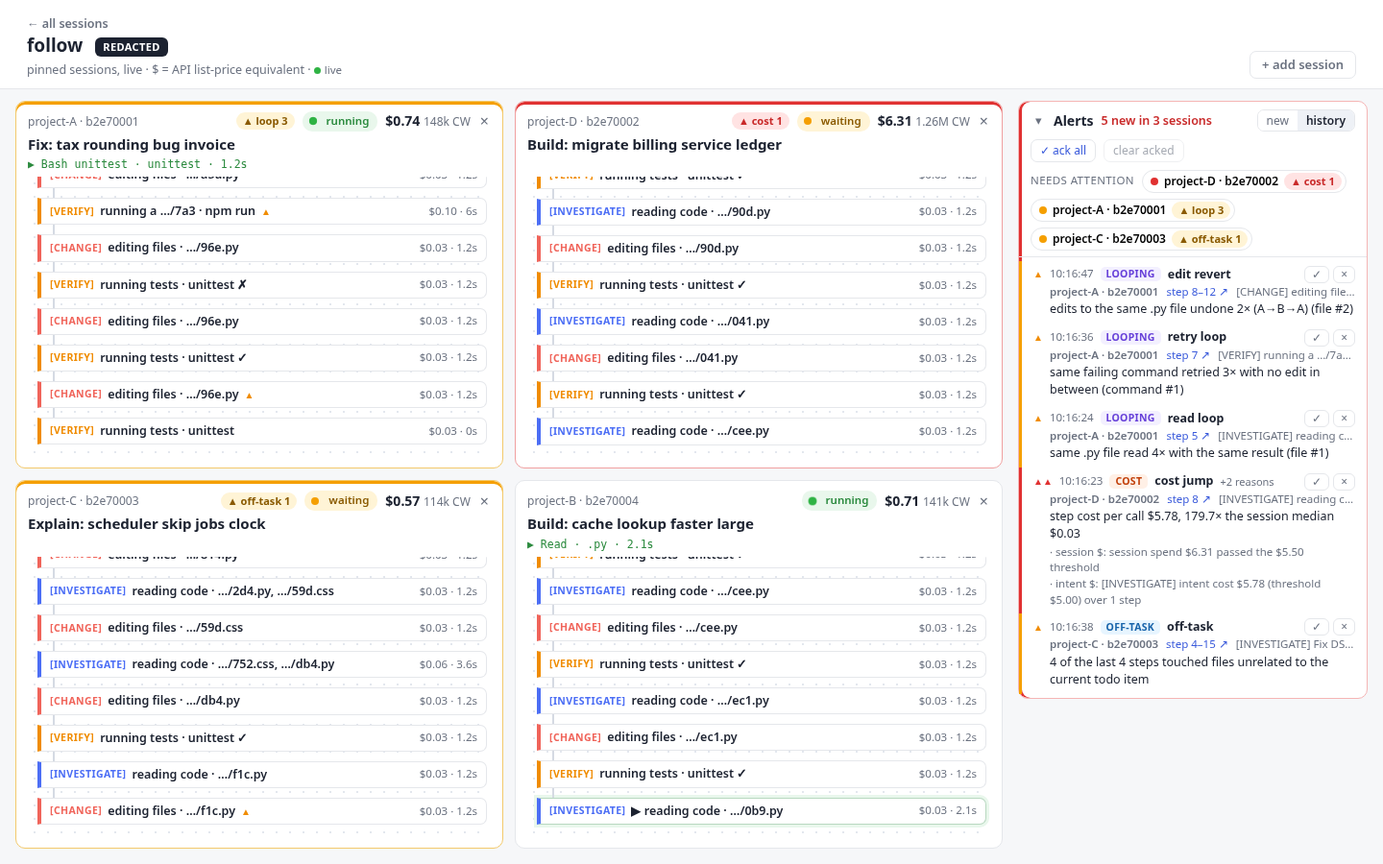
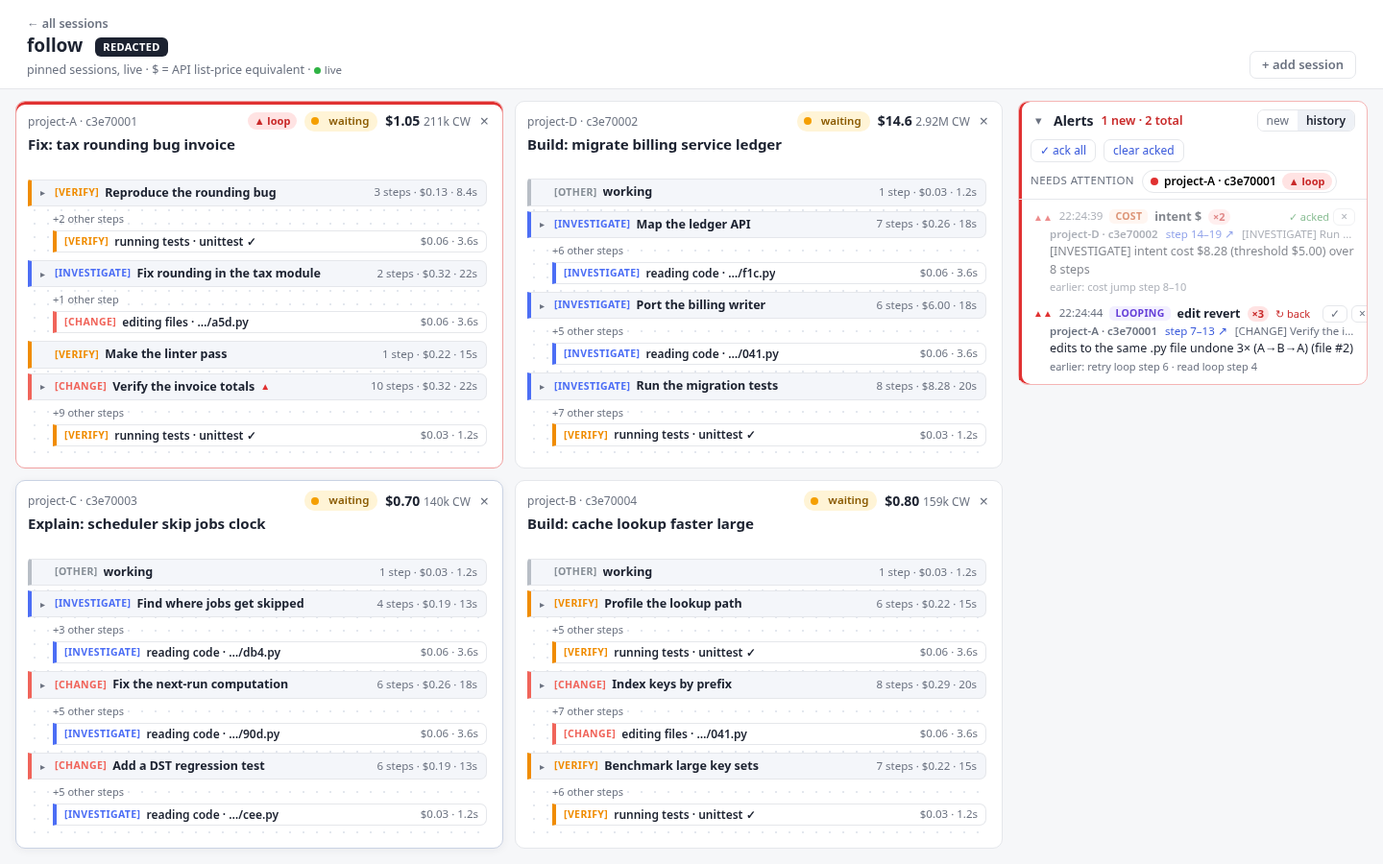
alerts v3: docs (intents in the flows, one alert per type, escalation-only re-raise, v2 history migration) and v3 media

diff --git a/README.md b/README.md
@@ -36,10 +36,11 @@ truncation handled) and shows:
   4 of them side by side as live step flows, subagents included. See
   [Many sessions at once](#many-sessions-at-once-the-board-and-the-follow-view) below.
 - **Session view** (`/s/<id>`): the session as an infinite canvas (pan, zoom, minimap, fit view). One node per
-  intent group or step ([CATEGORY] label, CW, $, wall time, a one-line summary, ✦ skills, ✎ declared), top-down in
+  intent ([CATEGORY] label, steps, CW, $, wall time, ✦ skills, ✎ declared): the intent always heads the node, then
+  `+N other steps` and only its latest step (see [Intents in the flows](#intents-in-the-flows)), top-down in
   time order; each subagent branches off the step that launched it as its own flow of intents (parallel fan-outs side
   by side, nested ones further right) and rejoins the main flow when it returns. Click a node for its steps and tool
-  calls (target, CW, time, ✓ / ✗, test counts) in a side panel. The view follows the live node; pan or zoom and it
+  calls (target, CW, time, ✓ / ✗, test counts) in a side panel: every step of the intent. The view follows the live node; pan or zoom and it
   stops, "follow live" resumes. Overlays (collapsible): ASKED / NOW / TESTS / FILES / SKILLS rows with totals and a
   context gauge, and the idle recap (costliest and slowest intent, up to 3 hints, cross-session ones marked) while the
   session waits for you. `?replay=1` replays a recorded session server-side as if it were live (about 90 s;
@@ -116,21 +117,34 @@ step (or step range) it is about:
 Severity: `warning`, or `critical` for a session / intent at >= 2x its threshold, a jump at >= 4x `cost.jump_ratio`,
 a repeat or retry at >= 2x its count, and edits undone >= 2x `looping.edit_revert_n` + 1 times.
 
-**Grouped per step.** Alerts of one kind that fire at the same step of one thread are one alert with several
-reasons: one expensive step that passes the session and intent thresholds and is a jump shows as one critical
-`cost jump +2` (reasons: `intent $`, `session $`), not three. The worst reason leads (then session $, intent $, jump);
-the alert takes the worst severity and the widest step range. A cost alert points at the step it fired at
-(`intent_usd`: the step that took the intent over its threshold), a loop at the step it began at.
+**One alert per kind per session.** A session has at most one cost, one off-task and one looping alert, so at most
+three. Each firing is a *trigger*; a new trigger of a kind the session already has updates that alert in place, and
+never adds a row:
+
+- its severity escalates to the worst trigger's and never goes down;
+- it shows the latest trigger's rule, message, step range and reasons, and links to the latest step;
+- it counts its triggers (`retry loop ×4`) and lists the earlier ones (`earlier: read loop step 5 · edit revert step
+  8–14`).
+
+The alert's id is stable per (session, kind). Within one trigger, alerts of one kind that fire at the same step of
+one thread are still one trigger with several reasons: one expensive step that passes the session and intent
+thresholds and is a jump is one critical `cost jump +2` (reasons: `intent $`, `session $`). The worst reason leads
+(then session $, intent $, jump). A cost trigger points at the step it fired at (`intent_usd`: the step that took
+the intent over its threshold), a loop at the step it began at.
 
 Messages are privacy-safe in every mode: no paths, file names, commands, patterns, prompt text, user names, e-mails
 or keys; files and commands are named by kind and a per-session ordinal (`same .py file read 6× (file #2)`,
 `same failing command retried 3× (command #1)`), and a last scrub removes anything path-, e-mail- or key-like.
 
 **History and acknowledgement.** Every alert of every session is kept until you acknowledge it (it stays in the
-history, dimmed, no longer counted as needing attention) or dismiss it (it leaves the history). Acknowledged or
-dismissed alerts come back when they get worse (a new reason at the step, a higher severity). The server keeps the
-history and its states on disk, deduplicated by the alert's stable id, so it survives page reloads and server
-restarts: `~/.cache/tokenscope/alerts-history.jsonl` (`$TOKENSCOPE_CACHE_DIR`, or `$TOKENSCOPE_ALERTS_HISTORY`, or
+history, dimmed, no longer counted as needing attention) or dismiss it (it leaves the history). Ack and dismiss
+apply to the one alert of a kind. An acknowledged or dismissed alert comes back as new only when it **escalates**
+(its severity rises). A new trigger at the same or a lower severity still updates its count, message and latest
+step, but leaves it acknowledged (or dismissed), so a loop that keeps going does not keep asking for attention. The
+server keeps the history and its states on disk, one record per (session, kind), so it survives page reloads and
+server restarts. A history written by an older version (one record per kind, thread and step) is merged into one
+record per session and kind when it loads: its count is the number of old records, it takes their worst severity
+and the newest one's message and step, and it is new if any of them was. The file is then rewritten. Location: `~/.cache/tokenscope/alerts-history.jsonl` (`$TOKENSCOPE_CACHE_DIR`, or `$TOKENSCOPE_ALERTS_HISTORY`, or
 `--alerts-history FILE`; `--no-alerts-history` keeps it in memory only). It holds the alerts' privacy-safe messages,
 the session id, and the project / goal / step labels as the server showed them (masked unless `--no-redact`). The
 server records alerts from its poll loop, whether or not a view is open.
@@ -139,9 +153,10 @@ server records alerts from its poll loop, whether or not a view is open.
 
 Where they show:
 
-- **Web (board, follow view, session canvas)**: an **Alerts** section with the history across sessions, newest
-  first: time, severity, kind (cost / off-task / looping), rule (`+N reasons` for a grouped one, listed under
-  it), session, step and the intent at that step, message; `✓` acknowledges, `×` dismisses, `✓ ack all` and
+- **Web (board, follow view, session canvas)**: an **Alerts** section with the history across sessions, one row per
+  session and kind, newest first: time, severity, kind (cost / off-task / looping), rule (`×N` triggers, `+N reasons`
+  listed under it), session, latest step and the intent at that step, message, and the earlier triggers. A row
+  that updates in place flashes; `✓` acknowledges, `×` dismisses, `✓ ack all` and
   `clear acked` act on all shown; `new` / `history` filters. **Needs attention** lists the sessions with alerts not
   acknowledged, worst first, each with its counts by kind; click one to jump to its card (board) or tile (follow
   view; a session not followed yet is pinned). Click an alert to jump to it: the board scrolls to the card, the
@@ -149,20 +164,24 @@ Where they show:
   step; the `step N ↗` link opens the canvas on that step (`/s/<id>#step=N`). The section collapses to its header
   line (`▾` / `▸`); the choice and the filter are kept per page in the browser (localStorage). On the board it sits
   above the cards, in the follow view it is a column next to the tiles (collapsed: a narrow strip), on the canvas a
-  drawer at the bottom left. Every **board card** and **follow tile** carries a badge with its unacknowledged
-  alerts by kind (`▲ cost 1 · loop 2`) and an edge in the worst one's colour (red critical, amber warning); a
-  tile marks alerted steps with `▲`. The canvas marks the node holding each alert's step (▲, coloured by severity;
-  hover for the alerts, click for the side panel) and lists them in an ALERTS row; acknowledged ones leave the
-  nodes and stay in the drawer.
+  drawer at the bottom left. Every **board card** and **follow tile** carries a badge with the kinds it has
+  unacknowledged alerts of (`▲ cost · loop`) and an edge in the worst one's colour (red critical, amber warning); a
+  tile marks each alert's latest step with `▲` (on the intent header while that step is hidden). The canvas marks
+  the node holding each alert's latest step (▲, coloured by severity; hover for the alert and its earlier
+  triggers, click for the side panel) and lists them in an ALERTS row (`retry loop ×3 · 23`); acknowledged ones
+  leave the nodes and stay in the drawer.
 - **Pane** (Claude Code mod): an alerts section under its header with the session's alerts, new ones first,
   acknowledged ones dim with `✓`, each numbered `#n`; press a row or `/tokenscope ack <#|all>` to acknowledge,
   `/tokenscope dismiss <#|all>` to dismiss, `/tokenscope alerts` prints the whole history, `/tokenscope alerts
-  hide|show` (or a press on its head) collapses it to one line, kept across sessions. Each new alert raises a toast.
+  hide|show` (or a press on its head) collapses it to one line, kept across sessions. A row shows `×N` when its
+  kind fired more than once; `/tokenscope alerts` lists the earlier triggers too. A new alert raises a toast, and
+  so does an escalated one; an in-place update at the same severity does not.
   See `mod/tokenscope-live/README.md`.
 
-API: `"alerts"` in `/api/session/<id>/compact` and `/flow` (the session's history, not dismissed:
-`[{id, n, kind, rule, severity, message, step, first, agent, reasons, details, active, live, state, ts, at,
-intent, raised}]`), counts in `/api/board` and `/api/follow` (`n`, `active`, `worst`, `by_kind`, and not
+API: `"alerts"` in `/api/session/<id>/compact` and `/flow` (the session's history, not dismissed, at most one per
+kind: `[{id, n, kind, rule, severity, message, step, first, agent, reasons, details, active, live, state, ts, at,
+intent, raised, count, triggers}]`, `triggers` = `[{id, rule, rules, severity, message, step, first, agent}]`,
+oldest first), counts in `/api/board` and `/api/follow` (`n`, `active`, `worst`, `by_kind`, and not
 acknowledged: `new`, `new_by_kind`, `new_worst`), `GET /api/session/<id>/alerts` (the list, its counts and the
 config in use), `GET /api/alerts[?s=<id>,...][&state=all][&limit=N]` (the history across sessions plus
 `sessions`: who needs attention), and `POST /api/alerts/ack`, `/dismiss` (`{"ids": [...]}` or `{"all": true,
@@ -170,7 +189,8 @@ config in use), `GET /api/alerts[?s=<id>,...][&state=all][&limit=N]` (the histor
 
 Offline: `tokenscope alerts SESSION [--json]` replays one transcript and prints its alerts;
 `python3 tools/alerts_eval.py --root DIR [--events FILE] [--off-task] [--per-trace] [--sample N]` runs the detectors
-over a whole tree and prints counts per kind and rule (traces named by ordinal and session id prefix only).
+over a whole tree and prints, per kind, the raw detector alerts, the triggers (grouped per step) and the alerts
+shown (one per kind and session), plus counts per rule (traces named by ordinal and session id prefix only).
 `tests/alerts_synth.py` writes synthetic sessions that trigger each alert (committed under `tests/fixtures/alerts/`).
 
 **Config**: `~/.config/tokenscope/alerts.toml` (or `$TOKENSCOPE_ALERTS_CONFIG`, or `--alerts-config FILE`; TOML or
@@ -243,9 +263,10 @@ them, and their cost adds up into that step and the tile total.*
   another running one. Pins are kept in the browser (localStorage) and in the URL (`/follow?s=a,b,c,d`), and the URL
   wins when it names sessions, so a follow view can be bookmarked.
 - **Follow view** (`/follow`): the pinned sessions in a 2x2 grid that adapts to 1-3. Each tile is a compact live flow
-  of the session's latest steps (step title with its [CATEGORY], $ and wall time per step) under a header with the
-  running total $ and the status (running / waiting / idle / ended), plus the call running now. It auto-scrolls to
-  the newest step; scroll up to stop, `↓ latest` resumes. The goal line opens the session's canvas (`/s/<id>`). One
+  of the session's latest intents: each intent's header ([CATEGORY] label, steps, $ and wall time), `+N other steps`
+  and its latest step, under a header with the running total $ and the status (running / waiting / idle / ended),
+  plus the call running now. Click an intent's header (or its `+N other steps`) to list all its steps, again to
+  close it. It auto-scrolls to the newest step; scroll up to stop, `↓ latest` resumes (and closes what you opened). The goal line opens the session's canvas (`/s/<id>`). One
   `/api/follow` request feeds all tiles.
 - **Subagents, live**: a step that launched subagents (Agent / Task, Workflow, Explore, …) carries them as branches,
   each labelled with its type and description (type only when redacted) and showing its latest steps and status
@@ -253,10 +274,27 @@ them, and their cost adds up into that step and the tile total.*
   hang under the subagent step that launched them (up to 3 levels). A branch's cost, its own subagents included,
   rolls into the launching step and the tile total. The tile stays *running* (and a SessionEnd does not show it as
   ended) while any subagent still works, even when the main thread only waits; the NOW line then shows the latest
-  subagent call. While a branch runs it stays pinned in view: the finished main-thread steps around it fold into
-  `… N earlier steps · $X` lines, finished older branches collapse to one header line (click either to open it,
-  which stops following until `↓ latest`), and the tile scrolls so the running branches and the latest step both
-  show.
+  subagent call. A branch lists its intents the same way (header, `+N other steps`, latest step). The subagents of
+  an intent's hidden steps still show, under its latest step. While a branch runs it stays pinned in view: finished
+  older branches collapse to one header line (click to open it, which stops following until `↓ latest`), and the
+  tile scrolls so the running branches and the latest step both show.
+
+### Intents in the flows
+
+The follow tiles, the session canvas and the pane list a session as **intents**, never as loose steps. Each intent is
+a header line, then a muted `+N other steps` line when it has more than one step, then only its latest step:
+
+```
+[CHANGE] Fix tax rounding in invoice totals · 6 steps · $0.22 · 54s
+  +5 other steps
+  [CHANGE] editing files · …/59d.css · $0.03 · 2s
+```
+
+An intent is an intent group (a todo item, a declared intent, or a run of steps the model named). Steps outside any
+group whose label is not settled yet (the open step, or steps waiting for the model labeller) go under one
+**pending intent** (`pending intent…`, dimmed) until they get one. A settled step outside every group is its own
+one-step intent, shown as its header alone. Expanding an intent shows all its steps: a click on the header in the
+follow view, the side panel on the canvas, and `/tokenscope expand <n|all>` (or a press on the header) in the pane.
 
 Goal labels come from the first prompt. One that reads oddly as a label (long, multi-line, filler, paths, code) gets
 a cleaned-up name; `--haiku-odd` asks Haiku for just those (see the options above).
@@ -274,9 +312,9 @@ prompt.*
   toggles a side pane in the terminal: ASKED (the goal from the first prompt, plus a `↳ now:` line for the latest
   follow-up, including ones typed while the agent works), NOW (the current call, or `N subagents working` with what
   the latest one is doing), TESTS (main-thread runs; `subagents:` when only subagents ran tests), edited files, a cost
-  sparkline with CW / $ / context, and an intent list: labelled steps and intent groups (collapsed to one line, the
-  live group expanded; `/tokenscope expand|collapse <n|all>` or a press on a group line), with the open step's
-  provisional label dimmed. Every operation, step and group line ends with its wall time
+  sparkline with CW / $ / context, and an intent list: each intent its header, `+N other steps` and its latest step
+  (the live one with its calls; see [Intents in the flows](#intents-in-the-flows); `/tokenscope expand|collapse
+  <n|all>` or a press on an intent line lists all its steps), with the open step's provisional label dimmed. Every operation, step and group line ends with its wall time
   (`✓ unittest 22 passed · 3k · 4s`, `[CHANGE] Add X · 63k · $0.22 · 1m12s`; a narrow pane cuts the label, never the
   numbers). Skills show as `✦`: Skill-tool calls (`✦ skill:pr-review · 2k · 3s`), slash-command skills, a `✦ <name>`
   mark on the steps and groups they drove and a SKILLS row (`tools/skills_stats.py --root DIR` counts both kinds per

diff --git a/docs/live-spec.md b/docs/live-spec.md
@@ -109,27 +109,40 @@ off-task (opt-in, `unrelated`) and looping (`repeat_*`, `retry`, `edit_revert`).
 facts (`_facts[k]`: kind, hashed identity, hashed result, failure, polling, edit / write hashes; never emitted).
 `LiveState.alerts(s)` builds an `alerts.Context` (main-thread steps with cost, todo / declared intent and request;
 every thread's calls; subagents are segmented only when they have an alert) and runs the registered detectors,
-cached on (seq, open step). `alerts.public` groups them: the alerts of one kind firing at the same step of one
-thread (a cost alert's step; a loop's first step) are one alert with "reasons" (the worst leads; a cost group's id
-is its step, so reasons joining later keep it). Every grouped alert goes into the alert history
-(`tokenscope/live/alertstore.py`, `LiveState.alert_store`): records keyed by id with a per-session ordinal "n",
-first-seen "ts", the step's time "at", its intent ("intent": {cat, label}), and "state" new / acked / dismissed;
-an acknowledged or dismissed alert comes back as new when it gets worse (a new reason, a higher severity), and a
-record a grown group now holds is merged into it. The server keeps it on disk (`--alerts-history FILE`, default
+cached on (seq, open step). `alerts.public` groups them into triggers: the alerts of one kind firing at the same step
+of one thread (a cost alert's step; a loop's first step) are one trigger with "reasons" (the worst leads).
+`alerts.collapse` then makes one alert per kind per session (at most 3): id `alerts.alert_id(session, kind)`, the
+worst severity of its triggers, the latest trigger's (newest step's) rule / message / step range / reasons / "at" /
+"intent", "count" (triggers) and "triggers" ([{"id","rule","rules","severity","message","step","first","agent"}],
+oldest first, at most 50). That alert goes into the alert history (`tokenscope/live/alertstore.py`,
+`LiveState.alert_store`): one record per (session, kind), with a per-session ordinal "n" (1-3), first-seen "ts",
+"count", and "state" new / acked / dismissed. A new trigger updates the record in place (latest message and step,
+count never drops, severity never drops). An acknowledged or dismissed alert comes back as new ("raised" + 1) only
+when its severity rises; a trigger at the same severity updates it and leaves it acknowledged. Records of an older
+history (v2: one per kind, thread and step; no `"v": 3`) are merged at load into one per session and kind (count =
+how many, worst severity, newest one's message and step, new if any was) and the file is rewritten. The server keeps
+it on disk (`--alerts-history FILE`, default
 `$TOKENSCOPE_ALERTS_HISTORY`, else `$TOKENSCOPE_CACHE_DIR` or `~/.cache/tokenscope` / `alerts-history.jsonl`; JSON
-lines `{"op": "put", "rec"}` / `{"op": "ack"|"dismiss", "ids", "ts"}` / `{"op": "drop", "ids"}`, compacted when
+lines `{"op": "put", "rec"}` / `{"op": "ack"|"dismiss", "ids", "ts"}` / `{"op": "drop", "ids"}` (older files), compacted when
 mostly superseded; `--no-alerts-history`: memory only) and syncs changed sessions into it from its poll loop (at
 most once a second), so alerts are kept while nobody watches. Payload: `alerts: [{"id","n","kind","rule",
 "severity","message","step","first","agent","reasons","details","active","live","state","ts","at","intent",
-"raised"}]` (the history, not dismissed, newest first) in compact / flow; `alerts: {"n","active","worst","by_kind",
+"raised","count","triggers"}]` (the history, not dismissed, newest first, at most one per kind) in compact / flow; `alerts: {"n","active","worst","by_kind",
 "new","new_by_kind","new_worst","top"}` on board rows (top: active and not acknowledged), the same without top
-plus `alert_steps` ({step: worst severity not acknowledged}) on follow tiles; `GET /api/session/<id>/alerts`;
+plus `alert_steps` ({latest trigger's main step: worst severity not acknowledged}) on follow tiles; `GET /api/session/<id>/alerts`;
 `GET /api/alerts[?s=<ids>][&state=all][&limit=N]` (every session: "alerts" with sid / short / project / goal, and
 "sessions": per session new / acked / total / by_kind / worst, those needing attention first); `POST
 /api/alerts/ack|dismiss` (`{"ids"}` or `{"all": true, "sessions"?}`) and `/api/alerts/reopen` (`{"ids"}`), JSON
 only. Messages never name files, commands or prompts (ordinal labels such as "file #2"); the intent label is the
-step's own label as the views show it (redaction-aware). `tools/alerts_eval.py` replays trees offline (per rule:
-every reason; per kind also the grouped count).
+step's own label as the views show it (redaction-aware). `tools/alerts_eval.py` replays trees offline (per kind: raw
+detector alerts, triggers, alerts shown; per rule: every reason).
+
+Intents in the flows (README "Intents in the flows"): `steps.intent_blocks(steps, groups)` splits a thread's steps
+into intents, each step in exactly one: an intent group ("group"); a run of steps outside any group whose label is not
+locked yet (open, or waiting for the model labeller) as one "pending" intent labelled `pending intent`; a locked step
+outside every group as its own one-step intent ("step"). The follow tiles, the canvas (`slotsOf` in
+web/canvas/src/main.jsx) and the pane (`intentBlocksOf` in mod/tokenscope-live/hooks/register.js) apply the same rule
+and show each intent as its header, `+N other steps` (N > 0) and its latest step only; all steps on expansion.
 
 Status (per session): `working` if the last event is a user prompt / tool_result / assistant tool_use, or a hook
 says PreToolUse/UserPromptSubmit after the last Stop, and the last event is < 90 s old; `waiting` (for the user)
@@ -185,11 +198,13 @@ ThreadingHTTPServer bound to 127.0.0.1 by default. Background thread runs the ta
   "cw","usd" (session totals, subagents included),"turns","started","last_ts","seq","steps_n","now": {"tool","target",
   "since_s","agent"? (the subagent type when the call is a subagent's: the main thread only waits on it)} while running
   else null,"agents_running","steps": [the latest 40 main-thread steps: {"i","cat","label","cw","usd" (subagents it
-  launched included, nested ones too),"open","tested","dur_s","agents"? (the subagents this step launched, parallel
+  launched included, nested ones too),"open","tested","dur_s","intent" (index in "intents"),"agents"? (the subagents this step launched, parallel
   ones as siblings: [{"id" (null: launched, no transcript yet),"type","description" (redacted: null),"workflow",
   "status": running|starting|idle|done|error,"cw","usd" (with its own subagents),"turns","steps_n","steps": [its
-  latest 6 steps, same shape, nested "agents" up to 3 levels]}]),"agents_more"? (launched by this step, not shown)}]}]}
-  in the order asked; an unknown id -> {"id", "missing": true}. At most 12 subagent branches per tile (active ones
+  latest 6 steps, same shape, nested "agents" up to 3 levels],"intents","intents_n"}]),"agents_more"? (launched by
+  this step, not shown)}],"intents": [the intents those steps belong to (steps.intent_blocks), oldest first:
+  {"kind": group|pending|step,"group","first","last","label","cat","source","steps" (all of it, shown or not),"cw",
+  "usd","dur_s","skills"}],"intents_before" (intents before the first shown),"intents_n"}]} in the order asked; an unknown id -> {"id", "missing": true}. At most 12 subagent branches per tile (active ones
   first, then the newest; newer steps first), shown in launch order. A subagent's steps are segmented once per change
   to its own transcript, so polling stays cheap with hundreds of workflow agents.
 - `GET /api/session/<id>` -> full session model (as above, steps of main + agents), plus "seq" (max).

diff --git a/mod/tokenscope-live/README.md b/mod/tokenscope-live/README.md
@@ -14,9 +14,11 @@ FILES  edited 3: invoice.py, money.py, tax.py
 COST   ⣀⣤⣶⣿ 182k CW · $0.41 · ctx ▕███░░░░░░░▏ 34%
 ── intents ──
 ▸1 [CHANGE] Implement multi-warehouse stock · 3 steps · 120k · $0.41
+  ├ +2 other steps
+  └ [CHANGE] Add per-warehouse quantities · Edit ×3 · 40k · $0.14
   [VERIFY] Run store tests · Bash unittest ✓ · 9k · $0.03
-▾2 [CHANGE] Wire warehouses into CLI ✎ · 2 steps · 20k · $0.06
-  ├ [INVESTIGATE] Inspect CLI entry point ✎ · Read ×2 · 10k · $0.03
+▸2 [CHANGE] Wire warehouses into CLI ✎ · 2 steps · 20k · $0.06
+  ├ +1 other step
   └ ▶ [CHANGE] editing files · cli.py… · Edit ×2 · 10k · $0.03
 ⚠ same error ×3, no edits since — try a different approach
 ✎ declared ×2
@@ -32,19 +34,22 @@ COST   ⣀⣤⣶⣿ 182k CW · $0.41 · ctx ▕███░░░░░░░▏
 - **FILES**: the files edited so far (or `edited N files` when the server redacts names)
 - **COST**: a cyan braille sparkline of cumulative CW per turn, CW, cost, and a context gauge
   against 200k tokens (yellow above 50%, red above 75%)
-- **intents** (when the server sends `intents`, see `docs/intents-spec.md`): steps and intent
-  groups, newest at the bottom. A group is one line, `▸N [CAT] <label> · N steps · CW · $`;
-  the group holding the open step is expanded (`▾N`) with its steps under it (`├` / `└`).
-  Steps outside a group are one line each: `[CAT] <label> · <summary> · CW · $`, the summary
-  cut to fit. The open step is marked `▶`; while its label is still provisional (not locked)
-  it is dim with a trailing `…`. The tag takes the category colour (below); a dim `✎` marks a
-  label from `declare_intent`, and `✎ declared ×N` closes the list when it was used. When
-  rows run short, older expanded groups collapse, then the oldest items fold into
-  `… N earlier`; the live item never folds.
-  Expand / collapse: `/tokenscope expand <n|all>`, `/tokenscope collapse <n|all>` (`n` is the
-  number after `▸` / `▾`), or press a group line (Enter on it once the pane holds the focus,
-  or a click). The choice holds across redraws, and a group you collapsed stays collapsed
-  while live. `/tokenscope view phases` switches to the phase tree below, `view intents` back
+- **intents** (when the server sends `intents`, see `docs/intents-spec.md`): the session as
+  intents, newest at the bottom, never loose steps (README "Intents in the flows"). An intent
+  is its head line `▸N [CAT] <label> · N steps · CW · $`, then a dim `├ +N other steps` and its
+  latest step (`└ [CAT] <label> · <summary> · CW · $`, the summary cut to fit); the live step
+  has its calls under it, one row each. Steps outside any group whose label is not settled yet
+  (the open step, or steps the model has not labelled yet) are under a dim `pending intent…`
+  head; a settled step outside every group is its own one-step intent, one line
+  `[CAT] <label> · <summary> · CW · $` with its tools summary on a dim `↳` line. The open step is
+  marked `▶`; while its label is still provisional (not locked) it is dim with a trailing `…`.
+  The tag takes the category colour (below); a dim `✎` marks a label from `declare_intent`,
+  and `✎ declared ×N` closes the list when it was used. When rows run short, older expanded
+  intents go back to head / `+N other steps` / latest step, then the oldest one-step intents
+  lose their `↳` lines, then the oldest items fold into `… N earlier`; the live item never folds.
+  Expand (every step of an intent under it, `├` / `└`) / collapse: `/tokenscope expand <n|all>`,
+  `/tokenscope collapse <n|all>` (`n` is the number after `▸` / `▾`), or press an intent line
+  (Enter on it once the pane holds the focus, or a click). The choice holds across redraws. `/tokenscope view phases` switches to the phase tree below, `view intents` back
 - **flow** (an older server without `intents`, or `view phases`): the goal as root, then phases: runs of consecutive turns with the same intent
   group, named `GROUP · <dominant intent>` (most turns, ties to the latest). Under a phase,
   consecutive calls of one tool fold into one line with up to 3 targets (`+N` more) and `×N`;
@@ -73,19 +78,20 @@ COST   ⣀⣤⣶⣿ 182k CW · $0.41 · ctx ▕███░░░░░░░▏
 - **alerts** (from the server's `alerts`: the session's alert history, see the repository README
   "Alerts") are a section right under the header, above the recap: `▾ ALERTS · 2 new · 3 total ━━━`
   in the worst new alert's colour (bright red critical, bright yellow warning; green
-  `✓ all acknowledged` once none is new), then one row per alert, new ones first (worst, then
-  newest), acknowledged ones dim with `✓`:
-  `#3 ▲ edit revert  10:25 · step 8–14 · edits to the same .py file undone 3× …` (`▲▲` critical,
-  `+2` when the step fired more reasons, the time of its step, the step or step range,
-  `subagent step` for a subagent's), at most 5 and `+N more · /tokenscope alerts`, then the
-  commands. `#n` is the alert's number in the session, stable as new ones arrive. An alert stays
-  until it is acknowledged (it then stays dim) or dismissed (it leaves). Press a new alert's row
-  to acknowledge it, or `/tokenscope ack <#|all>`; `/tokenscope dismiss <#|all>` removes it
-  (both go to the server, so the web views agree). `/tokenscope alerts` prints the whole history
-  (with every reason) as the command's output. Collapse the section to its head line
-  (`▸ ALERTS · 2 new · loop 2 · 3 total`) by pressing it or with `/tokenscope alerts hide`
-  (`show` brings it back); the choice is kept in the mod's store, across sessions. Each new alert
-  also raises one toast
+  `✓ all acknowledged` once none is new), then one row per alert, at most one per kind (cost,
+  off-task, looping), new ones first (worst, then newest), acknowledged ones dim with `✓`:
+  `#2 ▲ retry loop ×3  10:25 · step 7 · same failing command retried 3× …` (`▲▲` critical,
+  `×3` when its kind fired 3 times, `+2` when its latest trigger had more reasons, the time of
+  that trigger's step, the step or step range, `subagent step` for a subagent's), then the
+  commands. A new trigger of a kind updates its row in place. `#n` is the alert's number in the
+  session, stable as new ones arrive. An alert stays until it is acknowledged (it then stays
+  dim) or dismissed (it leaves); it comes back as new only when its severity rises. Press a new
+  alert's row to acknowledge it, or `/tokenscope ack <#|all>`; `/tokenscope dismiss <#|all>`
+  removes it (both go to the server, so the web views agree). `/tokenscope alerts` prints the
+  whole history (with every reason and the earlier triggers) as the command's output. Collapse
+  the section to its head line (`▸ ALERTS · 2 new · cost · loop · 3 total`) by pressing it or
+  with `/tokenscope alerts hide` (`show` brings it back); the choice is kept in the mod's store,
+  across sessions. A new alert raises one toast, and so does one that escalated
 - **warnings** are rare and come only from the server's `warnings`: one yellow line each,
   `⚠ <text> — <hint>`. A warning rule that appears after the first payload also raises one
   toast. A session without warnings shows no `⚠` anywhere

diff --git a/docs/intents-spec.md b/docs/intents-spec.md
@@ -76,7 +76,9 @@ Consecutive steps get a parent intent label once the purpose is clear:
 - otherwise the model proposes groups over closed, ungrouped consecutive steps (>= 2 steps each), source `haiku`;
 - groups never cross a user-prompt boundary; a group only wraps whole steps; its label is locked when created;
   a todo/declared group may keep growing while its item is active.
-Ungrouped steps stay top-level. Group tag = the category with most CW among its steps; a declared group with a
+Ungrouped steps are not shown loose: the flow views (follow tiles, canvas, pane) put a run of them whose labels are
+not locked yet under one "pending intent", and show a locked one as its own one-step intent (`steps.intent_blocks`;
+README "Intents in the flows"). Group tag = the category with most CW among its steps; a declared group with a
 `kind` uses it instead (investigate / plan / change / verify -> that category; other -> the CW-dominant one).
 
 ## 3. declare_intent (opt-in experiment; live pane, new sessions only)
@@ -123,16 +125,17 @@ no step, so the step total is a little below the session CW.
 
 ## 6. Live pane
 
-Every intent line (a collapsed group or a top-level step) has one dim detail line under it: a group's step labels
-("↳ Read store.py · Edit models.py ×2 · Run tests ✓", equal neighbours folded, cut with "+N"), a step's tools
-summary. The live step (the open one, or the last one while the session works) carries `ops` in the payload: its
+Every intent (a group, or a "pending intent" run) is its head line, a dim "├ +N other steps" (N > 0) and its latest
+step ("└ [CAT] label · summary · CW · $"); expanded (`/tokenscope expand`), every step. A one-step intent is the
+step's line with one dim detail line under it: its tools summary. The live step (the open one, or the last one while the session works) carries `ops` in the payload: its
 last 12 calls, `{"tool", "target", "cw" (the turn's CW split over its calls), "err" (null while running), "dur_s",
 "test" ({"ok","passed","failed"}, test runs only), "skill" (Skill calls only)}`, tool / target redaction-aware as in
 "now". Steps and groups carry `dur_s` and `skills`. The pane draws one row per call ("▶ Edit store.py · 4k · 2s",
 "✓ unittest 22 passed · 3k · 4s", "✦ skill:pr-review · 2k · 3s") plus the in-process calls the transcript has not
 caught up with (their elapsed time from the mod's own clock); step / group lines end with "· CW · $ · 1m12s". The
-label is cut to fit, never the numbers. Short of rows: older expanded groups collapse, then the oldest intents lose their detail lines, then fold
-into "… N earlier"; the live intent always stays.
+label is cut to fit, never the numbers. Short of rows: older expanded intents go back to head / "+N other steps" /
+latest step, then the oldest one-step intents lose their detail lines, then fold into "… N earlier"; the live intent
+always stays.
 
 ## 7. Idle recap
 
